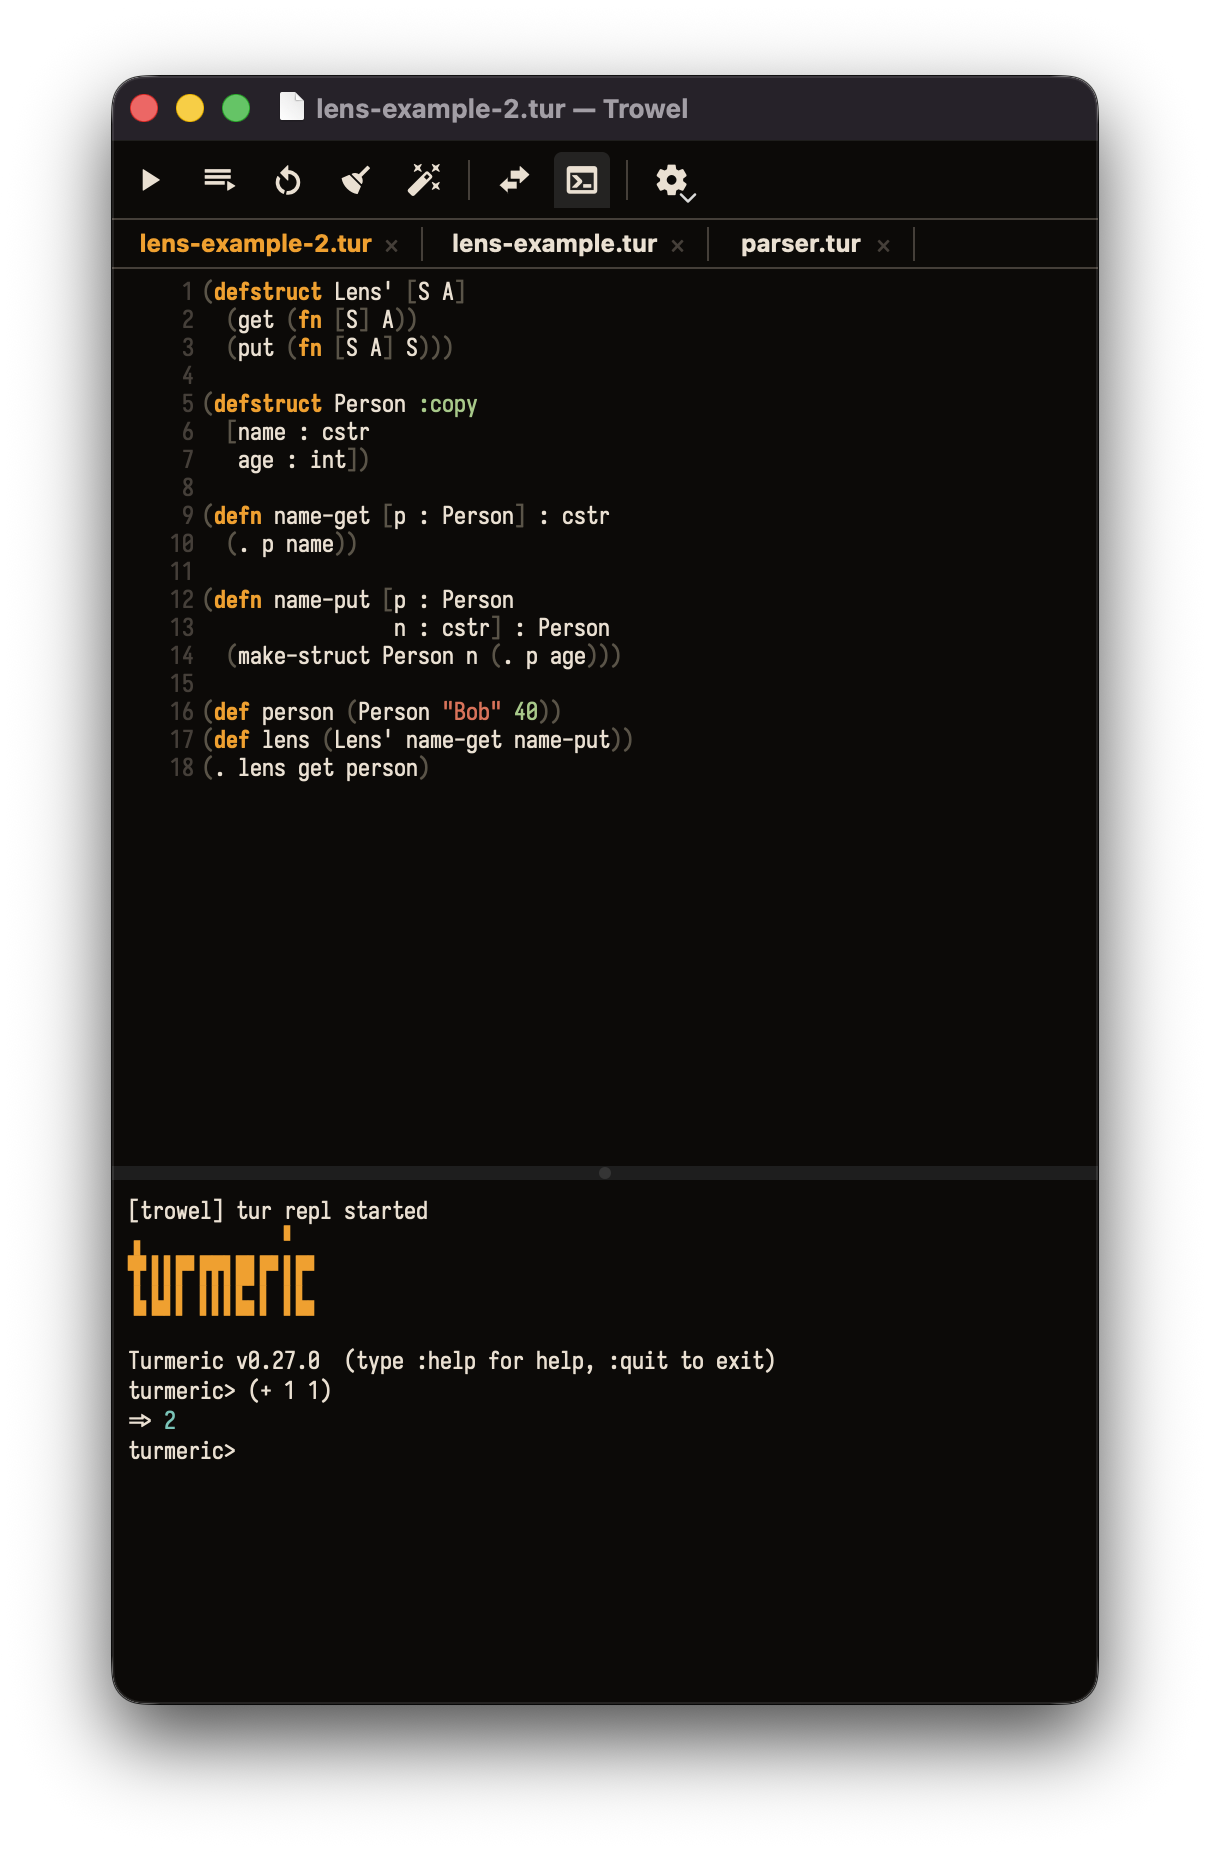
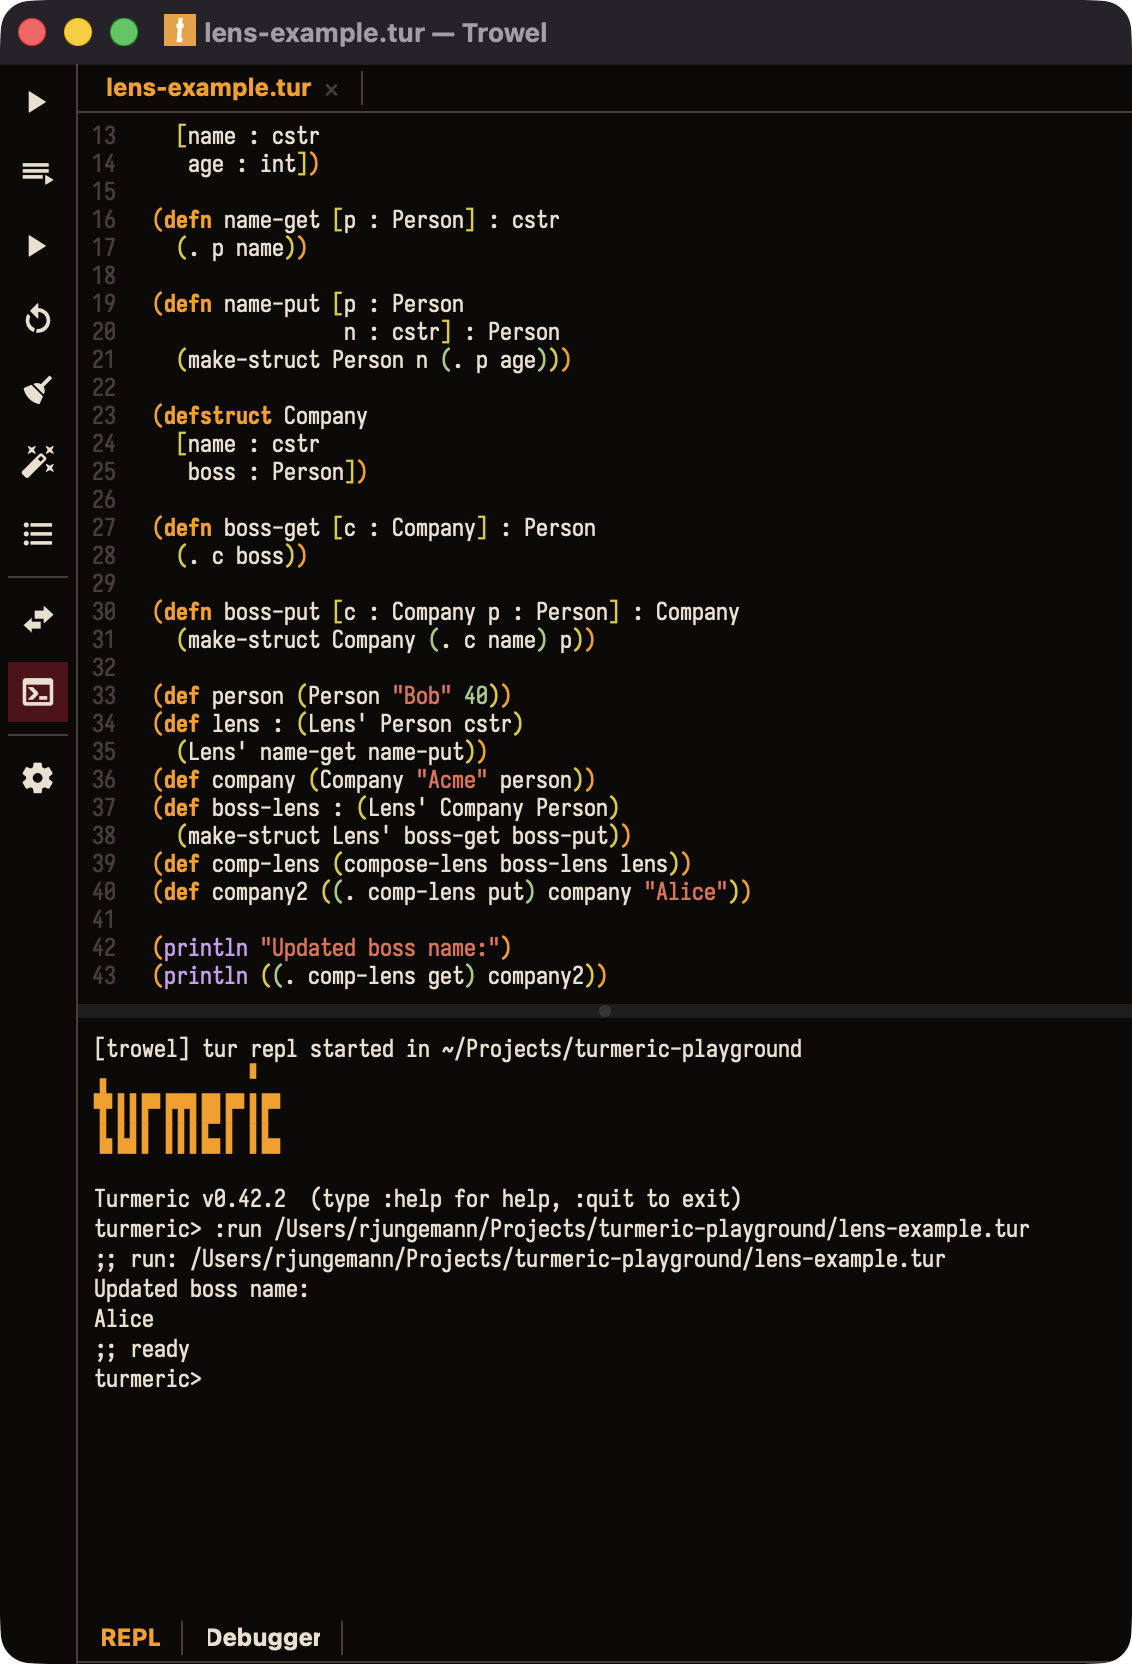
Trowel stuff

diff --git a/web/tour/index.html b/web/tour/index.html
@@ -64,6 +64,12 @@ h1 em { font-style: italic; color: var(--gold-bright); }
   font-weight: 300;
 }
 
+/* The hero description runs to more than one paragraph. Only the last one
+   carries the 40px that sets the gap before .hero-actions -- the rest get
+   ordinary paragraph spacing (1em, the UA default for a <p>, resolved against
+   this element's own font-size). */
+.hero-desc:not(:last-of-type) { margin-bottom: 1em; }
+
 .section-title { font-size: clamp(32px, 3.5vw, 48px); }
 .section-desc { max-width: 440px; }
 
@@ -130,12 +136,23 @@ h1 em { font-style: italic; color: var(--gold-bright); }
   line-height: 1;
 }
 
+/* Portrait product shot -- the Trowel stop shows the editor instead of a code
+   card, so it sits in the same split-section slot a .code-card would. Sizing
+   only; the shadow and spotlight come from .product-shot in site.css. */
+.tour-shot {
+  justify-self: center;
+  max-width: 420px;
+  width: 100%;
+}
+
 /* ── RESPONSIVE: TOUR ──────────────────── */
 @media (max-width: 768px) {
   .hero { padding: 100px 24px 60px; }
 
   .tour-index { padding: 0 24px 60px; }
   .tour-index-grid { grid-template-columns: repeat(2, 1fr); }
+
+  .tour-shot { max-width: 380px; }
 }
 
 @media (max-width: 480px) {
@@ -155,16 +172,18 @@ h1 em { font-style: italic; color: var(--gold-bright); }
 <!-- ── HERO ───────────────────────────── -->
 <div class="hero">
   <div class="hero-inner">
-    <h1>Fourteen things about <em>turmeric</em>.</h1>
+    <h1>A quick tour of Turmeric</h1>
     <p class="hero-subtitle">A walkthrough of what makes Turmeric tick.</p>
     <p class="hero-desc">
-      From algebraic effects to refinement types, each stop in this tour
-      shows you real language features with real code -- and the last one
-      shows you the editor to write it in.
+      From algebraic effects to refinement types, each stop in this tour shows you real language features with real code.
+    </p>
+    <p class="hero-desc">
+      Stick around to the end to learn how to install Turmeric in one step, no setup required.
     </p>
     <div class="hero-actions">
-      <a href="/try" class="btn-hero btn-hero-primary">Try in browser <span style="font-size:16px;">→</span></a>
-      <a href="/" class="btn-hero btn-hero-secondary">← Back to home</a>
+      <a href="/try" class="btn-hero btn-hero-primary">Try in Browser</a>
+      <a href="#install" class="btn-hero btn-hero-secondary">Install</a>
+      <a href="/docs/html/guides/" class="btn-hero btn-hero-secondary">Read the Guides</a>
     </div>
   </div>
 </div>
@@ -294,9 +313,9 @@ let [xs [1 2 3 4 5]]
 <div class="split-section reverse reveal" id="effects">
   <div>
     <p class="section-label">02 -- Algebraic Effects</p>
-    <h2 class="section-title">Effects declared.<br>Handlers <em>swapped.</em></h2>
-    <p class="section-desc">Your functions declare what side effects they may perform. Their callers decide how to handle them -- in production, in tests, or as mocks.</p>
-    <p class="section-desc">The type system ensures no effect goes unhandled. Swap between handlers at the call site without touching the core logic.</p>
+    <h2 class="section-title">Let the consumer determine how <code>handle</code> side-effects themselves.</h2>
+    <p class="section-desc">Your functions declare what side effects they may perform. Their callers decide how to handle them, depending on context. For example, let behavior change in tests, for mocking, or create wizard-like workflows where the consumer handles the in-between.</p>
+    <p class="section-desc">The type system ensures any effect that needs handling gets handled. Swap between handlers at the call site without touching the core logic.</p>
   </div>
   <div class="code-card">
     <div class="code-card-bar"><span class="code-card-filename" data-turmeric="effects.tur" data-sweet-exp="effects.tur.sweet">effects.tur</span><div class="code-syntax-toggle" role="tablist"><button class="seg-btn active" data-syntax="turmeric" role="tab" aria-selected="true">turmeric</button><button class="seg-btn" data-syntax="sweet-exp" role="tab" aria-selected="false">sweet-exp</button></div></div>
@@ -873,26 +892,9 @@ show-type("hello")   ;; =&gt; "cstr"</div></div>
       <a href="https://github.com/rjungemann/trowel" class="btn-hero btn-hero-secondary">View on GitHub</a>
     </div>
   </div>
-  <div class="code-card">
-    <div class="code-card-bar">
-      <span class="code-card-filename">macOS &amp; Linux</span>
-    </div>
-    <div class="code-card-body"><div class="code-version turmeric-version"># Install the editor and the compiler in one step
-brew install --cask rjungemann/trowel/trowel
-
-# ...or grab a build straight from Releases:
-#   github.com/rjungemann/trowel/releases/latest
-
-# Then: File -&gt; New Project, pick a template,
-# and press Run. That is the whole setup.
-
-;; hello.tur
-(defn main [] : int
-  (println "Hello from Trowel")
-  0)
-
-;; Run  -&gt; Hello from Trowel
-;; REPL -&gt; (+ 1 1)  =&gt; 2</div></div>
+  <div class="tour-shot product-shot">
+    <img src="/trowel-screenshot.png" width="1132" height="1664" loading="lazy"
+         alt="The Trowel editor showing lens-example.tur in a tabbed editor above a live REPL pane, where :run has printed 'Updated boss name: Alice'">
   </div>
 </div>
 

diff --git a/web/site.css b/web/site.css
@@ -271,6 +271,55 @@ nav {
 .split-section.reverse { direction: rtl; }
 .split-section.reverse > * { direction: ltr; }
 
+/* ── PRODUCT SHOT ──────────────────────── */
+/* A screenshot standing in for a code card. The PNG is a tight crop: rounded
+ * corners live in its alpha and it carries no baked-in shadow, so both the
+ * lift and the edge separation are drawn here. Used by /trowel and the Trowel
+ * stop on /tour, which supply their own sizing.
+ *
+ * The window is near-black on a near-black page, so its outline would
+ * otherwise dissolve into the background. The spotlight is what makes the
+ * edges legible: it sits behind the image and is sized so its bright core is
+ * hidden BEHIND the window, leaving only the falloff visible as a halo around
+ * the perimeter. Light the backdrop, not the subject -- the screenshot's own
+ * pixels stay untouched. */
+.product-shot {
+  position: relative;
+  isolation: isolate;
+}
+
+.product-shot::before {
+  content: "";
+  position: absolute;
+  /* The pool has to reach well past the window on every side. Kept tighter
+   * than the sides, so the light stays a pool around the window rather than
+   * washing into the copy in the opposite column. */
+  inset: -26% -46%;
+  z-index: -1;
+  pointer-events: none;
+  background: radial-gradient(
+    ellipse 62% 58% at 50% 46%,
+    rgba(240, 232, 220, 0.13) 0%,
+    rgba(236, 214, 178, 0.10) 38%,
+    rgba(212, 139, 28, 0.045) 62%,
+    transparent 82%
+  );
+}
+
+.product-shot img {
+  display: block;
+  width: 100%;
+  height: auto;
+  /* Both alpha-following (drop-shadow, not box-shadow, or the rounded corners
+   * would be boxed in a rectangle): a hairline rim tracing the window outline,
+   * then a contact shadow. The shadow is offset DOWN rather than spread evenly
+   * -- an even 40px halo of black sits exactly where the spotlight's falloff
+   * is and the two cancel, which is what made the first attempt read flat. */
+  filter:
+    drop-shadow(0 0 1px rgba(240, 232, 220, 0.30))
+    drop-shadow(0 30px 46px rgba(0, 0, 0, 0.55));
+}
+
 /* ── CODE SYNTAX TOGGLE ───────────────── */
 .code-syntax-toggle {
   margin-left: auto;
@@ -543,6 +592,12 @@ nav.nav-drawer .nav-mobile-panel { display: none; }
   }
   .split-section.reverse { direction: ltr; }
   .split-section.reverse > * { direction: ltr; }
+
+  /* A percentage inset this narrow runs the pool off both edges of the
+     viewport, which reads as a wash rather than a spotlight -- and leaves the
+     page relying on body's overflow-x clip not to become pannable. Pin the
+     sides to a fixed gutter instead, so the falloff still lands on-screen. */
+  .product-shot::before { inset: -14% -20px; }
 
   .cta-section { padding: 48px 24px 80px; }
   .cta-box { padding: 40px 0; }

diff --git a/web/trowel/index.html b/web/trowel/index.html
@@ -76,17 +76,12 @@
 
 .trowel-hero .install-hint { justify-content: flex-start; }
 
-/* Portrait product shot */
+/* Portrait product shot -- sizing only; the shadow and the spotlight that
+   separates the window from the page come from .product-shot in site.css. */
 .trowel-shot {
-  position: relative;
   justify-self: center;
   max-width: 460px;
   width: 100%;
-}
-.trowel-shot img {
-  display: block;
-  width: 100%;
-  height: auto;
 }
 
 /* ── DOWNLOAD / PLATFORMS ──────────────── */
@@ -240,9 +235,9 @@
       </div>
     </div>
 
-    <div class="trowel-shot reveal">
-      <img src="/trowel-screenshot.png" width="1210" height="1852" loading="eager"
-           alt="The Trowel editor showing a Turmeric source file in a tabbed editor above a live REPL pane printing (+ 1 1) => 2">
+    <div class="trowel-shot product-shot reveal">
+      <img src="/trowel-screenshot.png" width="1132" height="1664" loading="eager"
+           alt="The Trowel editor showing lens-example.tur in a tabbed editor above a live REPL pane, where :run has printed 'Updated boss name: Alice'">
     </div>
   </div>
 </div>
